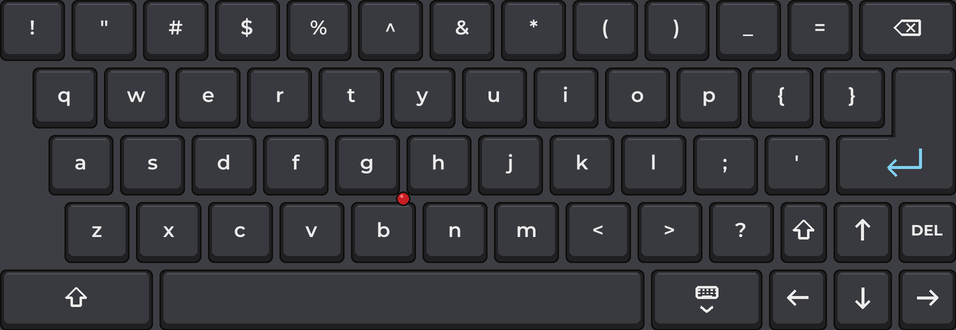
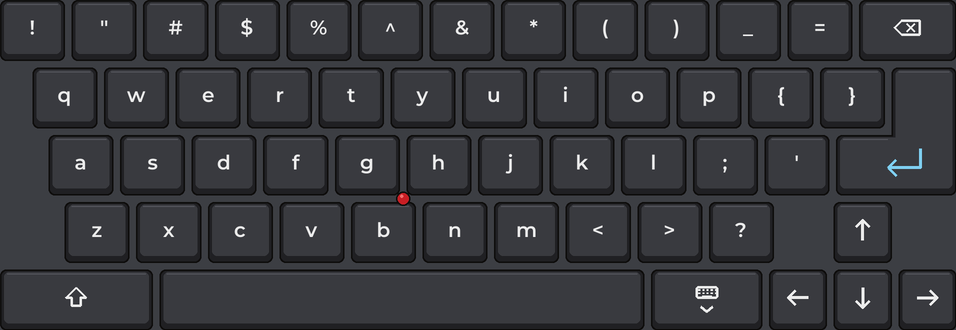
feat(UI): drop the right SHIFT and DEL keys from the laptop keyboard
Claude-Session: https://claude.ai/code/session_01LqzgbadjNG3QvZfBBNSivr

Changed region(s): [[0.7887, 0.6061, 0.8797, 0.8182], [0.9404, 0.6061, 1.0, 0.8182]]

diff --git a/art/laptop/mockups.py b/art/laptop/mockups.py
@@ -244,12 +244,9 @@ def keyboard(d,x0,y0,x1,y1,shift=False):
             keys.append(('Enter',None,None,(a[0],a[1],a[2],a[3]-kh-g)))
             keys.append(('Enter',None,None,b))
         else:
-            # right SHIFT, UP (above DOWN), DEL
+            # UP, above DOWN (bare deck beside it)
             ux=ax0+aw+g
-            key(d,x,y,ux-g-x,kh,icon='shift'); keys.append(('Shift',None,None,(x,y,ux-g-x,kh)))
             key(d,ux,y,aw,kh,icon='up'); keys.append(('Up',None,None,(ux,y,aw,kh)))
-            dx=ux+aw+g
-            key(d,dx,y,x1-dx,kh,'DEL',f=F(15,700)); keys.append(('Delete',None,None,(dx,y,x1-dx,kh)))
     y=y0+4*(kh+g); x=x0
     key(d,x,y,widths[0],kh,icon='shift'); keys.append(('Shift',None,None,(x,y,widths[0],kh))); x+=widths[0]+g
     key(d,x,y,widths[1],kh,''); keys.append(('Space',None,None,(x,y,widths[1],kh))); x+=widths[1]+g

diff --git a/src/UI/Widgets/Laptop/LaptopLayout.h b/src/UI/Widgets/Laptop/LaptopLayout.h
@@ -69,7 +69,6 @@ namespace UI::LaptopLayout
 	{
 		Char,
 		Backspace,
-		Delete, /* the character at the cursor */
 		Up,		/* history: older */
 		Down,	/* history: newer */
 		Left,	/* cursor */
@@ -137,9 +136,7 @@ namespace UI::LaptopLayout
 		{KeyKind::Char, ',', '<', {600, 464, 65, 60}},
 		{KeyKind::Char, '.', '>', {671, 464, 65, 60}},
 		{KeyKind::Char, '/', '?', {743, 464, 65, 60}},
-		{KeyKind::Shift, 0, 0, {815, 464, 46, 60}},
 		{KeyKind::Up, 0, 0, {868, 464, 58, 60}},
-		{KeyKind::Delete, 0, 0, {932, 464, 58, 60}},
 		{KeyKind::Shift, 0, 0, {34, 532, 152, 60}},
 		{KeyKind::Space, 0, 0, {193, 532, 485, 60}},
 		{KeyKind::Hide, 0, 0, {685, 532, 111, 60}},

diff --git a/tests/src/test_cases/UI/test_laptop.cpp b/tests/src/test_cases/UI/test_laptop.cpp
@@ -199,12 +199,10 @@ TEST_F(TestLaptop, CursorEditsInsideTheLine)
 	EXPECT_EQ(laptop().inputText(), "G1 X10 Y5 F600");
 	EXPECT_EQ(laptop().cursor(), 9u);
 
-	/* Backspace erases before the cursor, DEL the character at it */
+	/* Backspace erases before the cursor */
 	laptop().pressKey(KeyKind::Backspace);
 	EXPECT_EQ(laptop().inputText(), "G1 X10 Y F600");
-	laptop().pressKey(KeyKind::Delete);
-	EXPECT_EQ(laptop().inputText(), "G1 X10 YF600");
-	laptop().type("2 ");
+	laptop().type("2");
 	EXPECT_EQ(laptop().inputText(), "G1 X10 Y2 F600");
 	EXPECT_EQUAL_SCREENSHOT("laptop/keyboard_cursor.png");
 

diff --git a/src/UI/Widgets/Laptop/Laptop.cpp b/src/UI/Widgets/Laptop/Laptop.cpp
@@ -816,13 +816,6 @@ namespace UI
 				m_caret = pos - 1;
 			}
 			break;
-		case KeyKind::Delete:
-			if (pos < text.size())
-			{
-				text.erase(pos, 1);
-			}
-			m_caret = pos;
-			break;
 		case KeyKind::Left:
 			m_caret = pos > 0 ? pos - 1 : 0;
 			break;

diff --git a/FUNKY.md b/FUNKY.md
@@ -109,7 +109,7 @@ something is unread), **CONSOLE**, **SETTINGS**, **HOME** (back to the workshop)
 | Page | What |
 |---|---|
 | CONSOLE | Every reply and typed command, with its age (`4m08`), newest at the bottom. Warnings amber, errors red, typed G-code blue. The command line or the keyboard button opens the keyboard. |
-| Keyboard | The screen slides down, only its bottom part stays (the side column is pushed off and does nothing). Keys as Modern UI plus a cursor: SHIFT (left and right; lower case and symbols), L-shaped ENTER sends and stays open, arrow keys bottom right: ↑ / ↓ last 5 commands, ← / → move the cursor inside the line (typing inserts there, ⌫ erases before it, DEL at it), hide key closes (the unsent text stays). |
+| Keyboard | The screen slides down, only its bottom part stays (the side column is pushed off and does nothing). Keys as Modern UI plus a cursor: SHIFT (lower case and symbols), L-shaped ENTER sends and stays open, arrow keys bottom right: ↑ / ↓ last 5 commands, ← / → move the cursor inside the line (typing inserts there, ⌫ erases before it), hide key closes (the unsent text stays). |
 | ALERTS | 21 slots (3 pages of 7), newest first: `Error:` / `Warning:` lines and INFO events (connection, job start / pause / end). The oldest falls out. Right column: ▲, filter ALL → ERR → WRN → INFO (pages count only what matches), ▼. A tap opens the whole text; the row is then read. |
 | SETTINGS 1/2 SYSTEM | BRIGHTNESS, SOUND, SCREEN DIMMING, ORIENTATION, CONNECTION (locked during a print; NETWORK asks for the IP on the keyboard), ABOUT, FACTORY RESET (asks first). Popups as in the DuetScreen7 CNC UI. |
 | SETTINGS 2/2 PERSONALIZATION | DRAWER INDICATOR (stored; used once the drawer pages exist). Room for more. |
